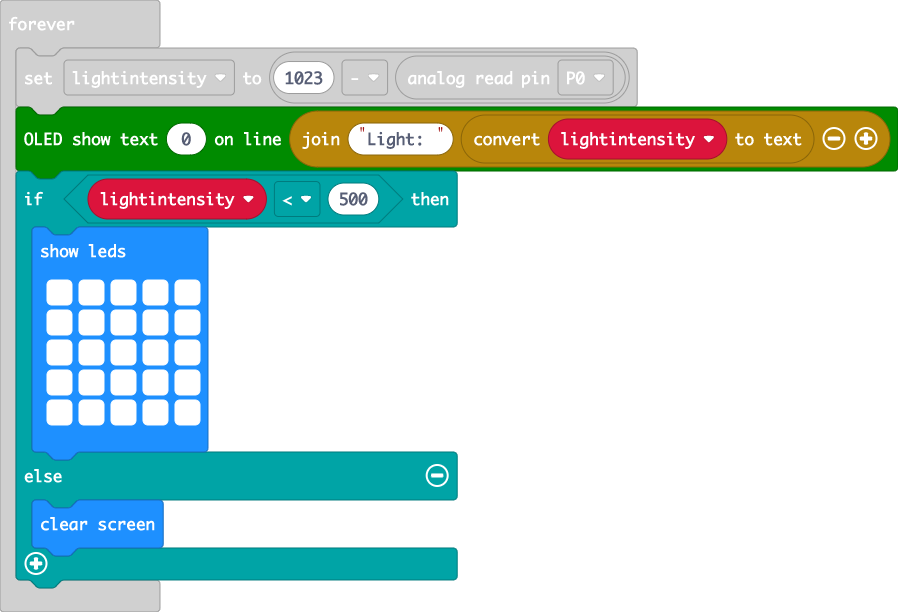
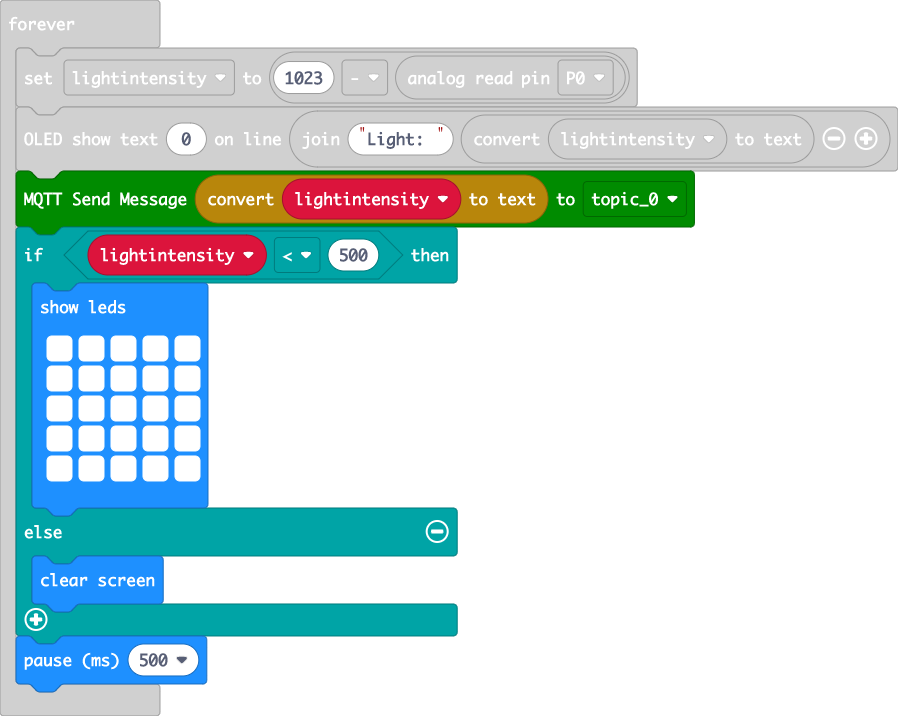
publish data to easyIoT

Changed region(s): [[0.0, 0.031, 1.0, 0.5588], [0.0, 0.5899, 0.5301, 0.9935]]

diff --git a/main.ts b/main.ts
@@ -15,6 +15,7 @@ microIoT.SERVERS.English
 basic.forever(function () {
     lightintensity = 1023 - pins.analogReadPin(AnalogPin.P0)
     microIoT.microIoT_showUserText(0, "Light: " + convertToText(lightintensity))
+    microIoT.microIoT_SendMessage(convertToText(lightintensity), microIoT.TOPIC.topic_0)
     if (lightintensity < 500) {
         basic.showLeds(`
             # # # # #
@@ -26,4 +27,5 @@ basic.forever(function () {
     } else {
         basic.clearScreen()
     }
+    basic.pause(500)
 })
